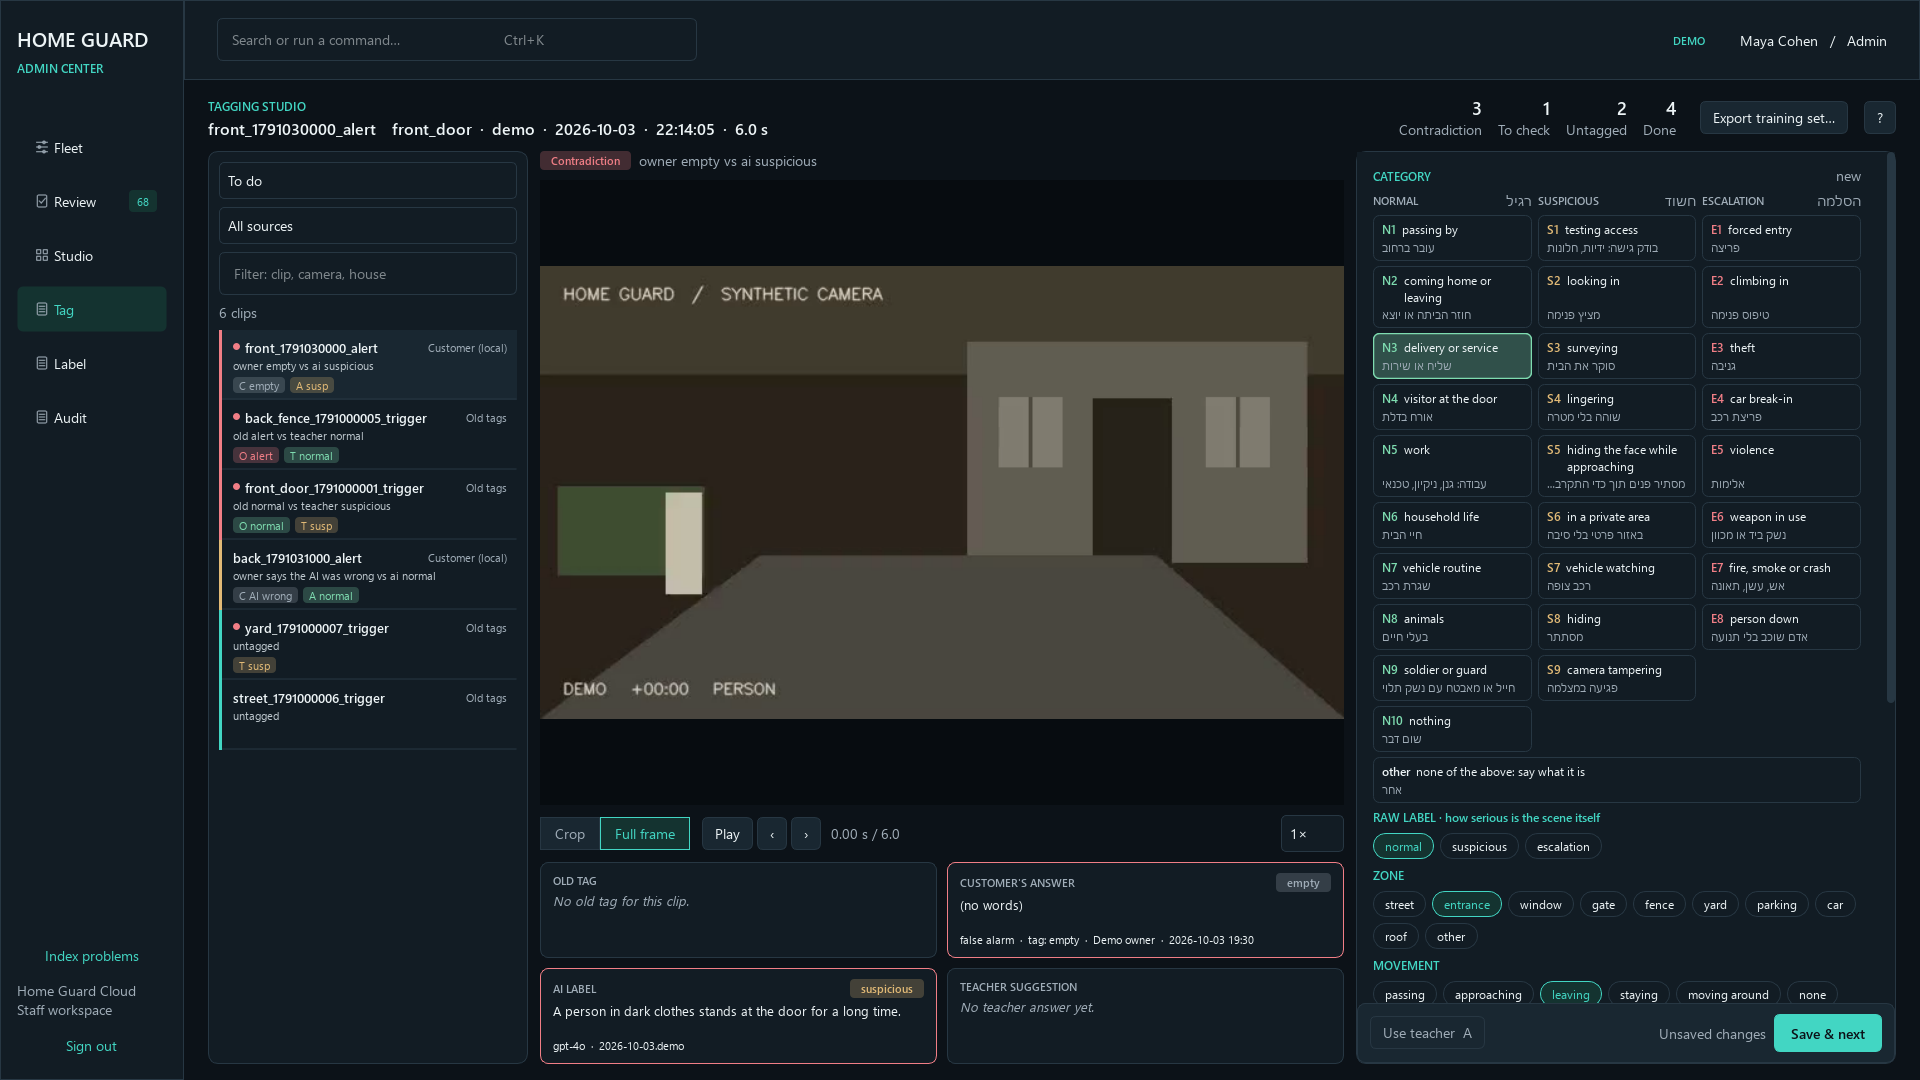
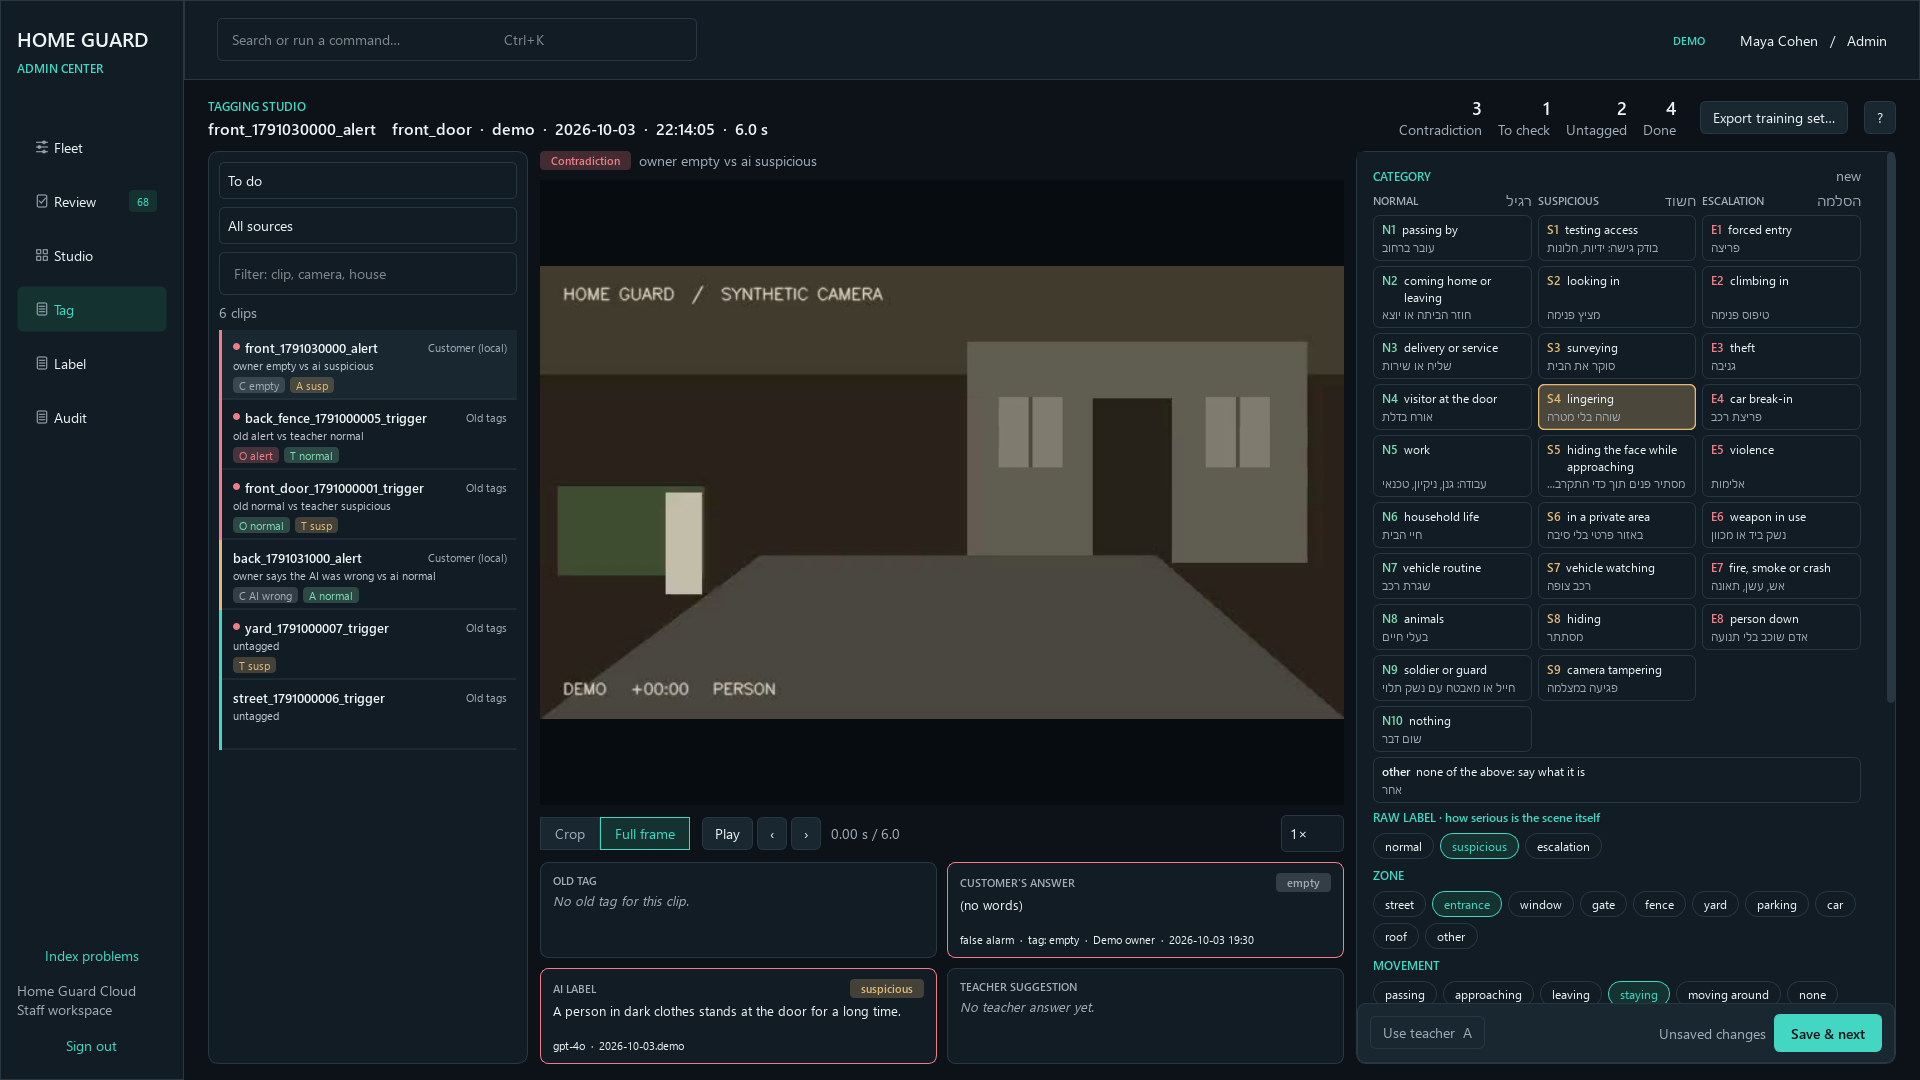
Tagging: an old tag never fills in a category; a saved tag needs one; migrated tags export with a null category
- Prefill from an old tag: its words, and its level as the raw label ([alert] -> suspicious, normal -> normal);
  the category stays empty, except "nothing there", which can only be N10. A teacher suggestion stays on its card
  until the tagger presses A.
- Saving requires a category unless the clip is deleted, in the desktop and on the server (422).
- Export: a migrated old tag is a level only: category, category_name and (for [alert]) raw_label are null, and
  old_label says what the old tag was.
- A clip asked for while the queue loads is no longer replaced by the queue's first clip.
- The screenshot tool no longer picks a category on real clips.

Changed region(s): [[0.6875, 0.3056, 0.9062, 0.3972], [0.7188, 0.7639, 0.7812, 0.7944]]

diff --git a/home_guard_project/admin/tag_view.py b/home_guard_project/admin/tag_view.py
@@ -171,8 +171,10 @@ class TagView(QWidget):
         scroll.setVerticalScrollBarPolicy(Qt.ScrollBarPolicy.ScrollBarAlwaysOn)
         body = QWidget(); body.setObjectName('tagForm'); scroll.setWidget(body)
         form = QVBoxLayout(body); form.setContentsMargins(16, 14, 26, 14)  # room for the scrollbar drawn over the right edge; form.setSpacing(8)
-        head = QHBoxLayout(); head.addWidget(label('CATEGORY', 'eyebrow')); head.addStretch()
-        self.started_from = label('', 'muted'); head.addWidget(self.started_from)
+        head = QHBoxLayout(); head.addWidget(label('CATEGORY', 'eyebrow'))
+        self.started_from = label('', 'muted'); self.started_from.setAlignment(Qt.AlignmentFlag.AlignRight)
+        self.started_from.setSizePolicy(QSizePolicy.Policy.Ignored, QSizePolicy.Policy.Preferred)
+        head.addWidget(self.started_from, 1)
         self.chord_label = Pill(self.theme); self.chord_label.hide(); head.addWidget(self.chord_label)
         form.addLayout(head)
         self.category_grid = QGridLayout(); self.category_grid.setHorizontalSpacing(6); self.category_grid.setVerticalSpacing(5)
@@ -321,7 +323,7 @@ class TagView(QWidget):
         self.model.set_rows(queue['items'])
         total = queue['count']
         self.queue_count.setText(f'{total} clip{"s" if total != 1 else ""}' + ('' if total <= len(queue['items']) else f' · first {len(queue["items"])} shown'))
-        target = self.select_after or self.key
+        target = self.select_after or self.key or self.wanted   # a clip someone asked for wins over the default
         self.select_after = None
         if target and self.model.row_of(target) >= 0:
             self.highlight(target)
@@ -371,7 +373,10 @@ class TagView(QWidget):
         for who, card in self.cards.items():
             card.show_opinion(detail['opinions'].get(who), who in conflicted, self.categories)
         self.accept_button.setEnabled('teacher' in detail['opinions'])
-        self.started_from.setText({'old': 'started from the old tag', 'studio': ''}.get(detail['prefilled_from'], 'new'))
+        self.started_from.setText({'old': 'old tag filled in · pick a category', 'studio': ''}.get(
+            detail['prefilled_from'], 'new'))
+        self.started_from.setToolTip('From the old tag: its words and its level as the raw label. Old tags had no '
+                                     'category, so none is filled in.' if detail['prefilled_from'] == 'old' else '')
         tag = detail.get('tag')
         self.history.setText(f"Saved {len(detail['history'])} time(s) · last by {tag['by']} at {tag['at'][:16].replace('T', ' ')}"
                              if tag else '')
@@ -612,8 +617,9 @@ class TagView(QWidget):
     def save(self):
         if self.form is None or not self.key:
             return
-        if not self.form.get('category') and not self.form.get('delete') and not self.form.get('needs_check'):
-            self.show_banner('Choose a category first (or mark the clip Needs check or Delete).'); return
+        if not self.form.get('category') and not self.form.get('delete'):
+            self.show_banner('Choose a category first (or mark the clip Delete). Old tags never had one, so it is '
+                             'left for you to pick.'); return
         key, fields = self.key, deepcopy(self.form)
         self.save_button.setEnabled(False); self.save_state.setText('Saving…')
         if not self.save_runner.start(lambda: (key, fields, self.backend.tagging_save(key, fields))):

diff --git a/tests/cloud/test_tagstudio.py b/tests/cloud/test_tagstudio.py
@@ -287,8 +287,12 @@ def test_training_export_keeps_the_contract_and_adds_the_taxonomy(tmp_path):
     assert (t["category"], t["category_name"], t["raw_label"], t["alert"]) == ("S3", "surveying", "suspicious", True)
     assert t["observation"] == {"zone": "fence", "movement": "moving_around", "flags": ["flashlight"],
                                 "visibility": "clear", "evidence_frame": 29, "evidence_sec": 4.2}
-    assert (by_id["old_alert_1771696867_trigger"]["raw_label"], by_id["old_alert_1771696867_trigger"]["tag_source"]) \
-        == ("", "migrated")
+    old_alert = by_id["old_alert_1771696867_trigger"]
+    # a migrated old tag is a level only: no invented category, and an [alert] never said suspicious or escalation
+    assert (old_alert["category"], old_alert["category_name"], old_alert["raw_label"]) == (None, None, None)
+    assert (old_alert["tag_source"], old_alert["old_label"], old_alert["alert"]) == ("migrated", "alert", True)
+    assert by_id["old_empty_1771696866_trigger"]["category"] is None
+    assert by_id["old_empty_1771696866_trigger"]["raw_label"] == "normal"
     assert counts["delete"] == 2 and counts["needs_check"] == 1 and counts["contradicted"] == 1
     assert counts["untagged"] == 1 and counts["training"] == 4
 
@@ -357,3 +361,31 @@ def test_paths_flag_then_env_then_default(tmp_path):
     assert flagged.dataset == tmp_path / "flag" and flagged.exports == tmp_path / "out"
     assert StudioPaths.resolve(env={}).dataset.name in ("dataset", "home_guard_dataset")
     assert VIDEO_BYTES
+
+
+def test_prefill_from_an_old_tag_never_invents_a_category(tmp_path):
+    root = make_dataset(str(tmp_path / "ds2"), [
+        dataset_row("alert_1772734904_trigger", "Three men cover their faces at the gate.", alert=True),
+        dataset_row("normal_1772734905_trigger", "A man walks past.", alert=False),
+        dataset_row("empty_1772734906_trigger", "No special activity", alert=False)])
+    studio = TagStudio(StudioPaths.resolve(env={}, dataset=root, eval_dir=str(tmp_path / "none"),
+                                           exports=str(tmp_path / "out")))
+    items = studio.items(None)
+    alert = studio.prefill(items["ds:alert_1772734904_trigger"])
+    assert (alert["category"], alert["raw_label"]) == ("", "suspicious")
+    assert alert["description"] == "Three men cover their faces at the gate."
+    normal = studio.prefill(items["ds:normal_1772734905_trigger"])
+    assert (normal["category"], normal["raw_label"]) == ("", "normal")
+    empty = studio.prefill(items["ds:empty_1772734906_trigger"])
+    assert (empty["category"], empty["raw_label"]) == ("N10", "normal")       # the only category an old tag implies
+    # done = the old level stands; its category stays empty until someone tags it
+    rows = {i.key: a for i, a in wq.build(items.values(), {})}
+    assert rows["ds:alert_1772734904_trigger"].reasons == ["migrated old tag (no category yet)"]
+
+
+def test_a_saved_tag_needs_a_category_unless_deleted():
+    from home_guard_project.cloud.tagstudio.service import StudioError, require_category
+    with pytest.raises(StudioError, match="Choose a category"):
+        require_category(None, {"raw_label": "suspicious", "description": "x"})
+    require_category(None, {"delete": True})
+    require_category(Tag("k", {"category": "S2"}), {"needs_check": True})        # a later partial save is fine

diff --git a/home_guard_project/cloud/tagstudio/export.py b/home_guard_project/cloud/tagstudio/export.py
@@ -54,11 +54,13 @@ def decision(item: ClipItem, tag: Optional[Tag], include_needs_check: bool = Fal
     if work_queue.assess(item).tier != work_queue.DONE:
         return None, "contradicted"
     label = old.effective_label()
+    # An old tag is a level only (normal / nothing there / [alert]): no category is invented for it, and an [alert]
+    # did not say suspicious or escalation, so its raw label stays unknown too.
     return {
-        "description": old.text, "category": "", "other_text": "",
-        "raw_label": "normal" if label in ("normal", EMPTY) else "",   # an old [alert] did not say S or E
+        "description": old.text, "category": None, "other_text": "",
+        "raw_label": "normal" if label in ("normal", EMPTY) else None,
         "observation": {}, "notes": "", "tag_source": "migrated", "tagged_by": old.detail.get("by", ""),
-        "tagged_at": "", "empty": label == EMPTY, "old_alert": label == ALERT,
+        "tagged_at": "", "empty": label == EMPTY, "old_alert": label == ALERT, "old_label": label,
     }, ""
 
 
@@ -78,7 +80,7 @@ def training_record(item: ClipItem, d: Dict[str, Any]) -> Dict[str, Any]:
         "source": item.source,
         "batch": item.batch,
         "category": d["category"],
-        "category_name": cat.name if cat else ("other" if d["category"] == taxonomy.OTHER else ""),
+        "category_name": cat.name if cat else ("other" if d["category"] == taxonomy.OTHER else None),
         "other_text": d["other_text"],
         "raw_label": d["raw_label"],
         "alert": d["raw_label"] in ("suspicious", "escalation") or bool(d.get("old_alert")),
@@ -86,6 +88,7 @@ def training_record(item: ClipItem, d: Dict[str, Any]) -> Dict[str, Any]:
         "tag_source": d["tag_source"],
         "tagged_by": d["tagged_by"],
         "tagged_at": d["tagged_at"],
+        "old_label": d.get("old_label"),
         "taxonomy_version": taxonomy.TAXONOMY_VERSION,
         "video_expires": bool(item.info.get("production_only")),
     }
@@ -107,6 +110,7 @@ def eval_row(item: ClipItem, d: Dict[str, Any]) -> Dict[str, Any]:
         "frames": evalfmt.frame_paths(item.clip_id), "s3_key": parts[3] if len(parts) == 4 else "",
         "local_time": item.local_time or evalfmt.clip_local_time(item.clip_id),
         "category": d["category"], "raw_label": d["raw_label"], "source": item.source, "tag_source": d["tag_source"],
+        "old_label": d.get("old_label"),
     }
 
 

diff --git a/home_guard_project/cloud/tagstudio/service.py b/home_guard_project/cloud/tagstudio/service.py
@@ -154,7 +154,9 @@ class TagStudio:
         return item, items
 
     def prefill(self, item: ClipItem) -> Dict[str, Any]:
-        """The old tag as the starting point: its text, and what its label says about the category/raw label."""
+        """The old tag as the starting point: its text and its level as the raw label. An old tag never had a category,
+        so none is filled in (it would bias the tagger), except "nothing there", which can only be N10. [alert] starts
+        as suspicious; escalation is the tagger's call. A teacher suggestion is never filled in: it is applied with A."""
         form = empty_form()
         old = item.opinions.get(OLD)
         if old is not None:
@@ -164,6 +166,8 @@ class TagStudio:
                 form["category"], form["raw_label"] = "N10", "normal"
             elif label == "normal":
                 form["raw_label"] = "normal"
+            elif label == "alert":
+                form["raw_label"] = "suspicious"
             form["delete"] = bool(old.detail.get("delete"))
         return form
 
@@ -193,6 +197,7 @@ class TagStudio:
             clean = clean_fields(fields)
         except TagError as e:
             raise StudioError(str(e), 422) from None
+        require_category(self.tags(session).get(key), clean)
         session.add(TagEvent(clip_key=key, clip_id=item.clip_id, fields=clean, staff_id=staff.id,
                              staff_name=staff.name, created_at=now))
         session.flush()
@@ -271,6 +276,16 @@ class TagStudio:
             result["frames"] = exporter.write_frames(
                 evals, frames_dir, lambda cid: self.local_media(by_clip[cid], "clip") if cid in by_clip else None)
         return result
+
+
+NEEDS_CATEGORY = "Choose a category before saving (or mark the clip Delete)"
+
+
+def require_category(current: Optional[Tag], fields: Dict[str, Any]) -> None:
+    """A saved tag always names a category, unless the clip is deleted: nothing is filled in for the tagger."""
+    merged = {**(current.fields if current else {}), **fields}
+    if not merged.get("category") and not merged.get("delete"):
+        raise StudioError(NEEDS_CATEGORY, 422)
 
 
 def _mac(secret: str, payload: str) -> str:

diff --git a/tests/cloud/test_tagging_routes.py b/tests/cloud/test_tagging_routes.py
@@ -94,6 +94,8 @@ def test_save_is_append_only_and_validated(client, staff_factory, studio):
     key = f"ev:{ids['consenting']}"
     r = client.post("/v1/tagging/tag", headers=h, json={"key": key, "fields": {"category": "Q1"}})
     assert r.status_code == 422 and "category" in r.json()["detail"]
+    r = client.post("/v1/tagging/tag", headers=h, json={"key": key, "fields": {"raw_label": "suspicious"}})
+    assert r.status_code == 422 and "Choose a category" in r.json()["detail"]
     r = client.post("/v1/tagging/tag", headers=h, json={"key": key, "fields": {
         "category": "N6", "zone": "yard", "description": "Two people walk along the wall to the car."}})
     assert r.status_code == 200, r.text
@@ -103,6 +105,8 @@ def test_save_is_append_only_and_validated(client, staff_factory, studio):
     client.post("/v1/tagging/tag", headers=h, json={"key": key, "fields": {"needs_check": True}})
     clip = client.get("/v1/tagging/clip", params={"key": key}, headers=h).json()
     assert clip["prefilled_from"] == "studio" and clip["form"]["zone"] == "yard" and clip["form"]["needs_check"]
+    old = client.get("/v1/tagging/clip", params={"key": "ds:front_side_1771696897_trigger"}, headers=h).json()
+    assert old["prefilled_from"] == "old" and old["form"]["category"] == "" and old["form"]["raw_label"] == "suspicious"
     assert len(clip["history"]) == 2 and clip["assessment"]["tier_name"] == "check"
     with session_scope(client.app.state.engine) as s:
         rows = s.scalars(select(m.TagEvent).order_by(m.TagEvent.id)).all()

diff --git a/tests/admin/test_tag_view.py b/tests/admin/test_tag_view.py
@@ -56,9 +56,11 @@ def test_keyboard_category_raw_label_and_save(widgets, wait):
 
 def test_save_needs_a_category_or_a_flag(widgets, wait):
     v, b = tag_view(widgets, wait)
-    v.form['category'] = ''; v.save()
+    v.form['category'] = ''; v.needs_check.setChecked(True); v.save()
     assert v.banner.isVisible() and 'category' in v.banner_text.text() and not v.save_runner.busy
-    v.needs_check.setChecked(True); v.save()
+    with pytest.raises(ValidationError, match='Choose a category'):
+        b.tagging_save(v.key, {'raw_label': 'suspicious'})                 # the server says the same
+    v.delete.setChecked(True); v.save()
     wait(lambda: not v.save_runner.busy, 5)
 
 
@@ -174,3 +176,12 @@ def test_missing_video_explains_why_and_the_clip_can_still_be_tagged(widgets, wa
     v.set_category('N10'); v.save()
     wait(lambda: not v.save_runner.busy, 5)
     assert b.tagging_clip(v.model.rows[0]['key']) is not None
+
+
+def test_a_clip_asked_for_while_the_queue_loads_is_not_replaced_by_the_first_one(widgets, wait):
+    b = DemoBackend()
+    v = TagView(b, 'admin'); widgets.append(v); v.resize(1366, 700); v.show()
+    target = b.tagging_queue(tier='all')['items'][-1]['key']
+    v.open(target)                                   # e.g. a link from elsewhere, before the queue has arrived
+    wait(lambda: v.detail is not None and not v.clip_runner.busy and not v.queue_runner.busy, 10)
+    assert v.key == target

diff --git a/home_guard_project/admin/screenshots_tag.py b/home_guard_project/admin/screenshots_tag.py
@@ -57,11 +57,16 @@ def main():
             app.processEvents()
             assert shell.grab().save(str(out / f'{prefix}-{name}-{width}.png'))
 
-        capture('queue')
-        view.set_category('N3'); view.chips['zone'].set_value('entrance'); view.chip_changed('zone')
-        view.chips['movement'].set_value('leaving'); view.chip_changed('movement')
+        capture('queue')                        # the form as it opens: started from the old tag, no category
+        if not args.server:
+            view.set_category('S4')             # what a tagger picks for "stands at the door for a long time"
+        view.chips['zone'].set_value('entrance'); view.chip_changed('zone')
+        view.chips['movement'].set_value('staying'); view.chip_changed('movement')
         view.mark_evidence(); pump(.3)
-        capture('tagging')
+        capture('tagging')                      # real clips: the category is left for the tagger to pick
+        if args.server:
+            shell.close(); QThreadPool.globalInstance().waitForDone(); app.processEvents()
+            continue
         view.save()
         wait(lambda: not view.save_runner.busy and not view.clip_runner.busy and not view.queue_runner.busy, 20)
         pump(1.5)

diff --git a/home_guard_project/admin/tagging_client.py b/home_guard_project/admin/tagging_client.py
@@ -10,7 +10,7 @@ from threading import RLock
 from home_guard_project.cloud.tagstudio import queue as work_queue
 from home_guard_project.cloud.tagstudio.config import StudioPaths
 from home_guard_project.cloud.tagstudio.fields import TagError, clean_fields, fold
-from home_guard_project.cloud.tagstudio.service import StudioError, TagStudio
+from home_guard_project.cloud.tagstudio.service import StudioError, TagStudio, require_category
 from .backend import AuthError, ForbiddenError, ServerError, UnsupportedError, ValidationError
 
 
@@ -146,6 +146,7 @@ class _MemoryStudio(TagStudio):
             clean = clean_fields(fields)
         except TagError as e:
             raise StudioError(str(e), 422) from None
+        require_category(self.tags(session).get(key), clean)
         with self._lock:
             self._events.append(dict(key=key, at=now.strftime('%Y-%m-%dT%H:%M:%S.%fZ'), by=staff.name, fields=clean))
         tags = self.tags(session)
